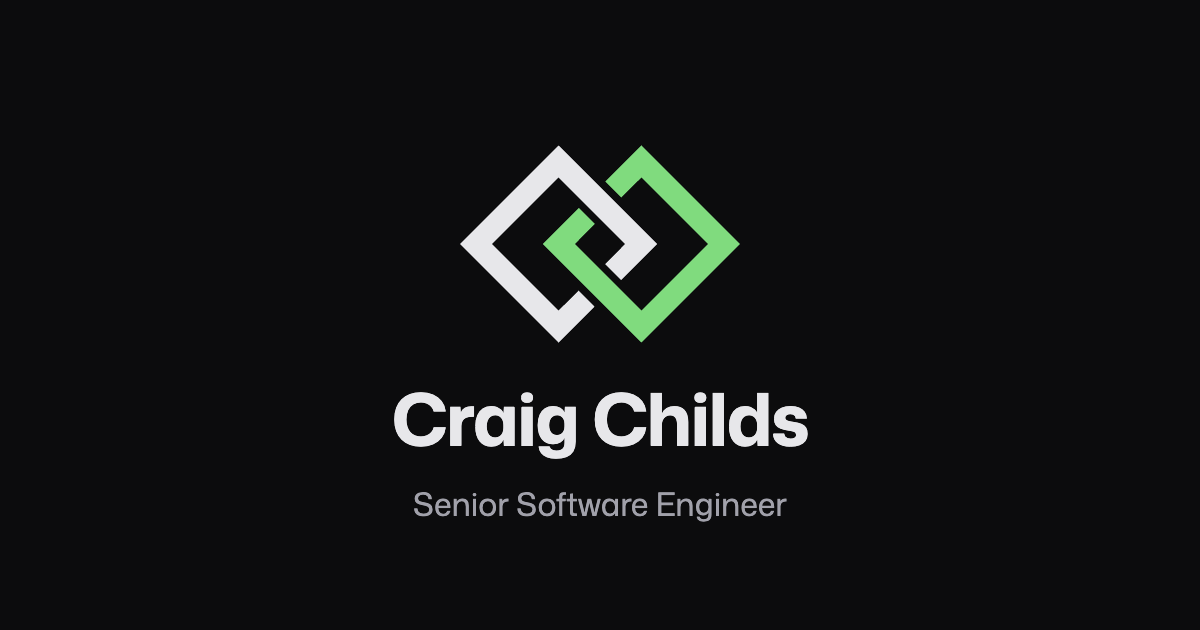
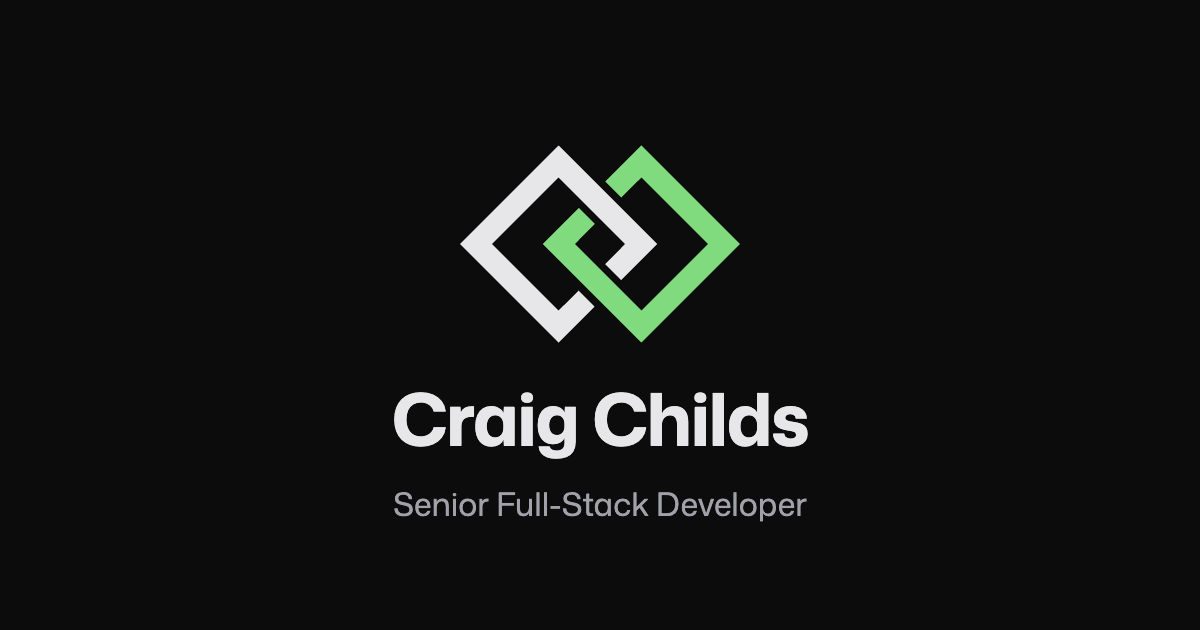
Use Senior Full-Stack Developer as the current role
The site title, description, hero, resumé heading, manifest and social card
disagreed about the role. Past job titles in the resumé history are unchanged.

Changed region(s): [[0.3083, 0.7841, 0.6783, 0.8444]]

diff --git a/scripts/generate-icons.js b/scripts/generate-icons.js
@@ -154,7 +154,7 @@ const socialCard = () => `<!doctype html>
 <body style="margin:0;width:1200px;height:630px;background:${INK};color:${FG};font-family:'Mona Sans',system-ui,sans-serif;display:flex;flex-direction:column;align-items:center;justify-content:center">
   ${svgDoc(280, placedMark(REGULAR, 280, 280))}
   <div style="font-size:72px;font-weight:700;letter-spacing:-0.02em;margin-top:-16px">Craig Childs</div>
-  <div style="font-size:32px;color:#a1a1aa;margin-top:12px">Senior Software Engineer</div>
+  <div style="font-size:32px;color:#a1a1aa;margin-top:12px">Senior Full-Stack Developer</div>
 </body>`;
 
 // An ICO is a small directory followed by the images, which can be plain PNGs

diff --git a/site/layouts/baseof.html b/site/layouts/baseof.html
@@ -58,7 +58,7 @@
   <meta property="og:image" content="{{ $.Site.Params.Url }}/media/og-image.png" />
   <meta property="og:image:width" content="1200" />
   <meta property="og:image:height" content="630" />
-  <meta property="og:image:alt" content="Craig Childs, Senior Software Engineer" />
+  <meta property="og:image:alt" content="Craig Childs, Senior Full-Stack Developer" />
 
   <!-- Twitter meta links -->
   <meta name="twitter:card" content="summary_large_image" />

diff --git a/site/content/_index.md b/site/content/_index.md
@@ -1,6 +1,6 @@
 ---
 avatar: /media/profile.jpeg
-eyebrow: "Senior Software Engineer · Ex-Shopify"
+eyebrow: "Senior Full-Stack Developer · Ex-Shopify"
 # The headline reads "<before> <phrase> <after>"; the phrase rotates through this list
 headline:
   before: "I build"
@@ -14,7 +14,7 @@ headline:
     - data pipelines
 sidebar:
   name: Craig Childs
-  subText: "Senior Software Engineer who spent 5+ years working on hard problems at Shopify, building the ultimate mobile shopping experience: Shop"
+  subText: "Senior Full-Stack Developer who spent 5+ years working on hard problems at Shopify, building the ultimate mobile shopping experience: Shop"
 ---
 
 I'm a web developer with a passion for building cool things and solving problems!

diff --git a/site/content/projects/_index.md b/site/content/projects/_index.md
@@ -1,8 +1,8 @@
 ---
 title: "Projects"
-description: "Side projects and open source work by Craig Childs, a Senior Software Engineer from the UK."
+description: "Side projects and open source work by Craig Childs, a Senior Full-Stack Developer from the UK."
 heading: "Hi, my name is Craig Childs!"
-subheading: "I'm a Full-Stack Web Developer from the UK"
+subheading: "I'm a Senior Full-Stack Developer from the UK"
 avatar: "/media/avatar.jpg"
 medium: "https://craig-childs.medium.com/"
 github: "https://github.com/CraigChilds94"

diff --git a/site/content/resume/_index.md b/site/content/resume/_index.md
@@ -1,5 +1,5 @@
 ---
 title: "Resumé"
-description: "The resumé of Craig Childs, a UK-based Senior Software Engineer with 12+ years in the industry, including 5+ years at Shopify."
+description: "The resumé of Craig Childs, a UK-based Senior Full-Stack Developer with 12+ years in the industry, including 5+ years at Shopify."
 # The page content lives in data/resume.yaml and the layout in layouts/resume/section.html
 ---

diff --git a/site/content/coaching/_index.md b/site/content/coaching/_index.md
@@ -1,5 +1,5 @@
 ---
 title: "Coaching"
-description: "Development coaching from Craig Childs, a Senior Software Engineer with 12+ years in the industry. Coming soon."
+description: "Development coaching from Craig Childs, a Senior Full-Stack Developer with 12+ years in the industry. Coming soon."
 # The page body lives in layouts/coaching/section.html; this file creates the section so Hugo renders it
 ---
